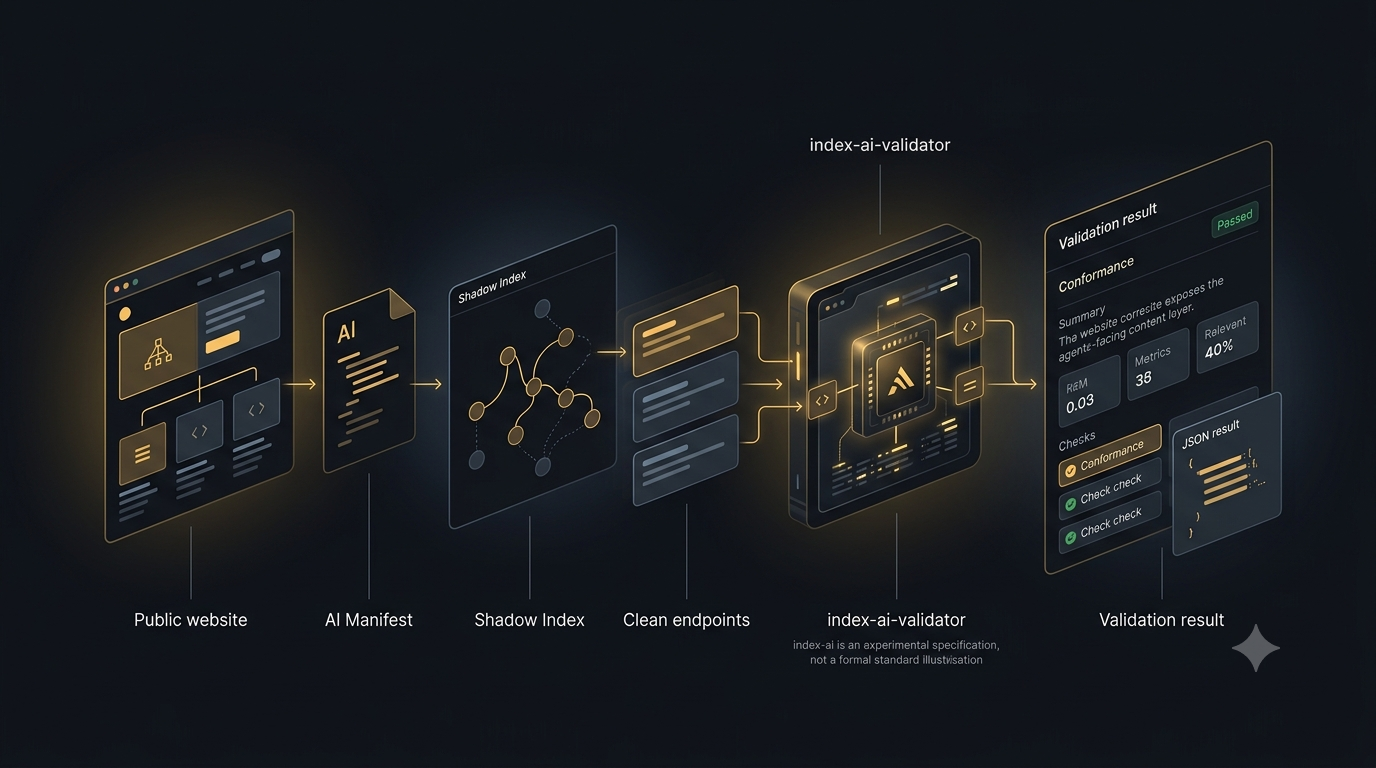
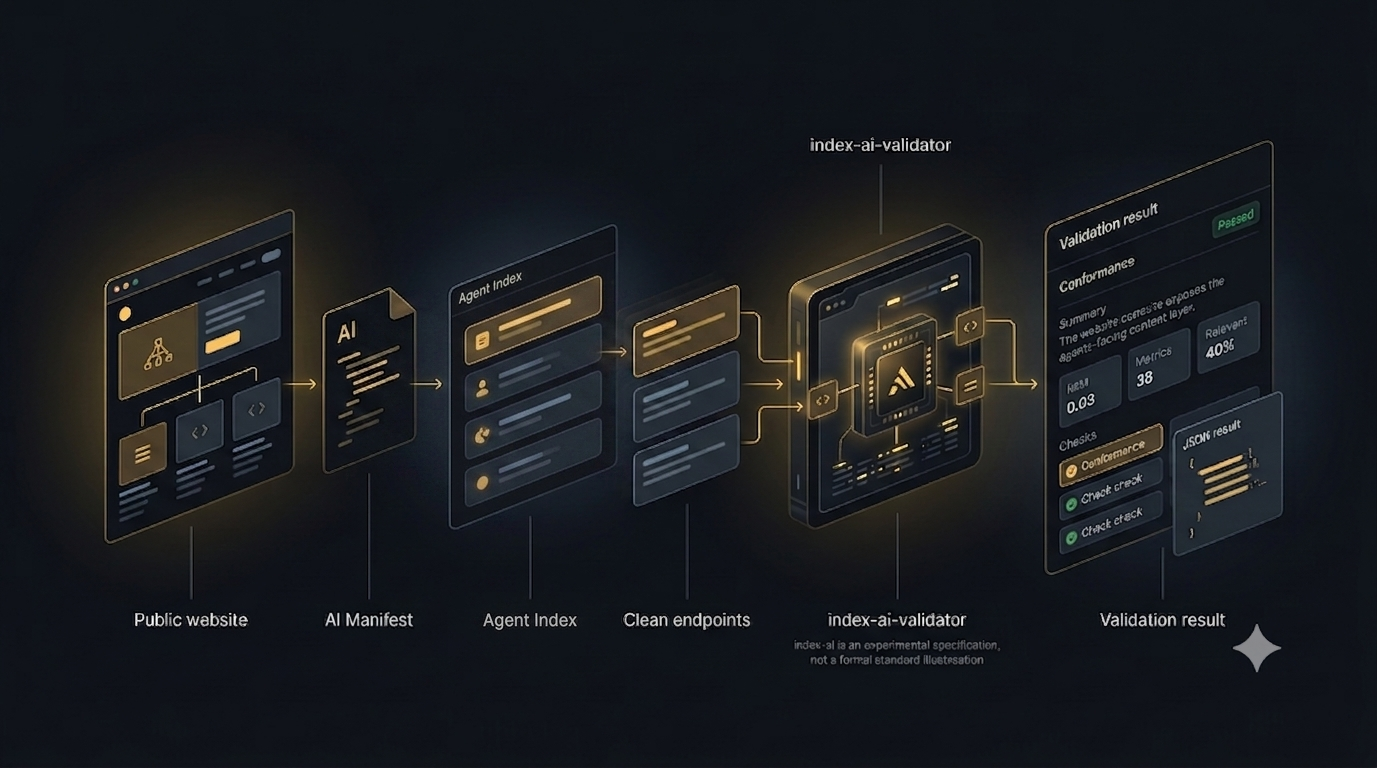
fix: align package metadata and agent index wording

diff --git a/docs/.vitepress/config.ts b/docs/.vitepress/config.ts
@@ -8,7 +8,7 @@ const config = withMermaid(
     base: '/index-ai-validator/',
     title: 'index-ai-validator',
     description:
-      'Free CLI that checks whether your site is readable by AI agents: index-ai manifest, Shadow Index, clean endpoints, and content_chars.',
+      'Free CLI that checks whether your site is readable by AI agents: index-ai manifest, Agent Index, clean endpoints, and content_chars.',
     cleanUrls: true,
     appearance: 'dark',
     vite: {
@@ -49,7 +49,7 @@ const config = withMermaid(
           text: 'What each check means',
           items: [
             { text: 'Level 1 Manifest', link: '/guide/level-1-manifest' },
-            { text: 'Level 2a Shadow Index', link: '/guide/level-2a-shadow-index' },
+            { text: 'Level 2a Agent Index', link: '/guide/level-2a-shadow-index' },
             { text: 'content_chars', link: '/guide/content-chars' },
             { text: 'Security', link: '/guide/security' },
             { text: 'Discovery', link: '/guide/discovery' },

diff --git a/docs/guide/level-2a-shadow-index.md b/docs/guide/level-2a-shadow-index.md
@@ -1,10 +1,10 @@
-# Level 2a Shadow Index
+# Level 2a Agent Index
 
-Level 2a extends Level 1 with a Shadow Index graph. The graph lists clean,
+Level 2a extends Level 1 with an Agent Index graph. The graph lists clean,
 AI-readable endpoints and declares the metadata needed to validate those
 endpoints.
 
-Level 2a Shadow Index validation is available through `validateIndexAi()` and
+Level 2a Agent Index validation is available through `validateIndexAi()` and
 the `index-ai` CLI.
 
 ## Level 2a scope
@@ -12,7 +12,7 @@ the `index-ai` CLI.
 Level 2a validation currently covers:
 
 - manifest `access.shadow_layer`
-- Shadow Index graph fetch
+- Agent Index graph fetch
 - graph JSON content-type check
 - graph JSON parse check
 - graph schema validation
@@ -29,9 +29,9 @@ Level 2a validation currently covers:
 - heuristic security checks against fetched clean endpoint text
 - Level 2a conformance computation
 
-## Shadow Index location
+## Agent Index location
 
-The AI Manifest declares the Shadow Index with:
+The AI Manifest declares the Agent Index with:
 
 ```txt
 access.shadow_layer
@@ -45,9 +45,12 @@ When the manifest uses this value:
 
 the validator resolves it against the target origin and fetches that graph.
 
+`access.shadow_layer` is the current manifest field name for compatibility with
+the implemented Level 2a schema. The public concept is Agent Index.
+
 ## Graph shape
 
-The Shadow Index must use a `nodes` array.
+The Agent Index must use a `nodes` array.
 
 The deprecated `pages` array must fail.
 
@@ -144,7 +147,7 @@ NFC before counting.
 
 ```mermaid
 flowchart TD
-  A["Manifest access.shadow_layer"] --> B["Fetch Shadow Index graph"]
+  A["Manifest access.shadow_layer"] --> B["Fetch Agent Index graph"]
   B --> C["Validate nodes"]
   C --> D["Fetch llm_url"]
   D --> E["Check content type"]
@@ -161,7 +164,7 @@ flowchart TD
 level-2a
 ```
 
-when Level 1 checks pass and the Level 2a Shadow Index checks pass.
+when Level 1 checks pass and the Level 2a Agent Index checks pass.
 
 Warnings can still affect `passed` when `failOnWarn` or strict warning behavior
 is enabled. See [Conformance vs Passed](/guide/conformance-vs-passed).

diff --git a/docs/guide/level-1-manifest.md b/docs/guide/level-1-manifest.md
@@ -5,7 +5,7 @@ site identity, freshness metadata, and machine-readable entry points for an
 `index-ai` implementation.
 
 Level 1 is the base for Level 2a. The public `validateIndexAi()` entrypoint and
-the `index-ai` CLI validate the AI Manifest before attempting Shadow Index
+the `index-ai` CLI validate the AI Manifest before attempting Agent Index
 validation.
 
 ## What the AI Manifest is
@@ -18,8 +18,8 @@ questions:
 - When was the described content updated or generated?
 - Which URL fields point to related machine-readable resources?
 
-Level 1 is structural. Level 2a builds on it by using `access.shadow_layer` to
-find and validate the Shadow Index.
+Level 1 is structural. Level 2a builds on it by using the current
+`access.shadow_layer` manifest field to find and validate the Agent Index.
 
 ## Manifest location
 
@@ -68,7 +68,7 @@ If `level` is present, it must be `level-1` or `level-2a`.
 URL-like manifest fields are checked structurally. The current rule accepts
 absolute `http` or `https` URLs and root-relative paths.
 
-## Shadow Index declaration
+## Agent Index declaration
 
 Level 2a validation uses:
 
@@ -77,8 +77,12 @@ access.shadow_layer
 ```
 
 When present, the validator resolves this path against the target URL and tries
-to fetch the Shadow Index graph. `/ai-graph.json` is the expected graph target
+to fetch the Agent Index graph. `/ai-graph.json` is the expected graph target
 when a manifest declares that path.
+
+`access.shadow_layer` is the current schema field name. The public docs use
+Agent Index for the Level 2a graph to avoid the negative meaning of "shadow" in
+AI and security contexts.
 
 ## Content type and JSON
 

diff --git a/docs/index.md b/docs/index.md
@@ -4,7 +4,7 @@ layout: home
 hero:
   name: index-ai-validator
   text: Is your site readable by AI agents?
-  tagline: A free CLI that checks whether your site exposes a clean, agent-facing layer — index-ai manifest, Shadow Index, clean endpoints, and measured content size. Runs in your terminal. No signup.
+  tagline: A free CLI that checks whether your site exposes a clean, agent-facing layer — index-ai manifest, Agent Index, clean endpoints, and measured content size. Runs in your terminal. No signup.
   actions:
     - theme: brand
       text: Get started
@@ -16,19 +16,19 @@ hero:
 features:
   - title: Prove agents can find you
     details: Checks the AI Manifest at /.well-known/index-ai.json and the discovery hints agents rely on — HTML link, HTTP Link header, robots.txt, llms.txt.
-  - title: Validate your Shadow Index
+  - title: Validate your Agent Index
     details: Inspects the Level 2a graph nodes, fetches each clean llm_url endpoint, and verifies content_chars against the Unicode NFC code-point count.
   - title: Catch leaks before agents do
     details: Flags secret-shaped values, sensitive variable names, and private infrastructure references in the public content you expose to agents.
 ---
 
-![index-ai-validator: from a public website through the AI Manifest, Shadow Index, and clean endpoints to a validation result](./index-ai-validator_explained.png)
+![index-ai-validator: from a public website through the AI Manifest, Agent Index, and clean endpoints to a validation result](./index-ai-validator_explained.png)
 
 ## Most sites are readable by browsers. Is yours readable by agents?
 
 Browsers read HTML, CSS, and JavaScript. AI agents need a different interface: a clean layer that says what a site is, where its content lives, how fresh it is, and how much text they will pay tokens for before fetching it.
 
-`index-ai` explores that layer through three ideas — an [AI Manifest](/guide/level-1-manifest) that describes the site, a [Shadow Index](/guide/level-2a-shadow-index) that maps public content into structured nodes, and clean content endpoints that return Markdown or plain text instead of rendered HTML.
+`index-ai` explores an Agent View through three ideas — an [AI Manifest](/guide/level-1-manifest) that describes the site, an [Agent Index](/guide/level-2a-shadow-index) that maps public content into structured nodes, and clean content endpoints that return Markdown or plain text instead of rendered HTML.
 
 `@hardmachinelabs/index-ai-validator` makes that layer testable. One command tells you whether yours works.
 
@@ -74,7 +74,7 @@ Checks Level 1 + Level 2a today. Not certification, not a traffic promise. → [
 ## What it checks
 
 - Level 1 AI Manifest: fetch, JSON content type, JSON parse, and schema shape
-- The `access.shadow_layer` declaration and the Shadow Index graph it points to
+- The `access.shadow_layer` declaration and the Agent Index graph it points to
 - Level 2a node fields, `llm_url` structure, and clean endpoint content types
 - Hard HTML leaks, with tolerated soft inline markup reported as warnings
 - `content_chars` in `exact` and `max` modes, using Unicode NFC code-point counting

diff --git a/packages/validator/README.md b/packages/validator/README.md
@@ -22,6 +22,13 @@
   <img src="https://img.shields.io/badge/STATUS-EXPERIMENTAL-f59e0b?style=for-the-badge" alt="Experimental status">
 </p>
 
+<p align="center">
+  <img src="https://img.shields.io/badge/TypeScript-Ready-378add?style=for-the-badge" alt="TypeScript ready">
+  <img src="https://img.shields.io/badge/Node.js-20%2B-10b981?style=for-the-badge" alt="Node.js 20 plus">
+  <img src="https://img.shields.io/badge/Dependencies-4%20runtime-7a8ba3?style=for-the-badge" alt="4 runtime dependencies">
+  <img src="https://img.shields.io/badge/Surface-small-f59e0b?style=for-the-badge" alt="Small dependency surface">
+</p>
+
 ![index-ai-validator explained](https://raw.githubusercontent.com/jordachmakaya/index-ai-validator/main/docs/index-ai-validator_explained.png)
 
 **Is your website readable by AI agents?** Most sites are built for browsers — HTML, scripts, navigation, layout. Agents have to read that browser-first HTML to understand you. `@hardmachinelabs/index-ai-validator` checks whether your site also exposes a clean, structured layer built for agents — and makes that layer **testable** from your terminal.
@@ -40,6 +47,8 @@ Naming:
 It is a developer validator, not a production certification, legal compliance
 tool, traffic guarantee, SEO ranking tool, security audit, or vulnerability
 scanner.
+
+Designed for CI and local audits: deterministic output, stable JSON, standalone HTML reports, and a small runtime dependency surface.
 
 ## Installation / run with npx
 

diff --git a/docs/guide/getting-started.md b/docs/guide/getting-started.md
@@ -5,7 +5,7 @@
 `@hardmachinelabs/index-ai-validator` is an experimental free CLI validator for `index-ai` Level
 1 and Level 2a.
 
-It checks whether a public website exposes the files, Shadow Index graph, and
+It checks whether a public website exposes the files, Agent Index graph, and
 clean endpoints expected by the current Level 1 and Level 2a implementation.
 
 ## Who is it for?
@@ -13,7 +13,7 @@ clean endpoints expected by the current Level 1 and Level 2a implementation.
 This package is for developers, maintainers, and technical reviewers working on
 public `index-ai` implementations.
 
-Use it when you need structured validation checks for the AI Manifest, Shadow
+Use it when you need structured validation checks for the AI Manifest, Agent
 Index graph, clean endpoint content types, HTML leaks, `content_chars`,
 conservative security heuristics, discovery hints, and CLI behavior.
 
@@ -94,7 +94,7 @@ Implemented scope:
 - pragmatic AJV Level 1 schema validation
 - `identity.domain` host mismatch warning
 - manifest `access.shadow_layer`
-- Shadow Index graph fetch
+- Agent Index graph fetch
 - graph JSON content-type check
 - graph JSON parse check
 - graph schema validation

diff --git a/docs/about.md b/docs/about.md
@@ -15,7 +15,7 @@ They need a clean, machine-readable layer that explains what a site is, where it
 `index-ai` explores that layer through three ideas:
 
 * an AI Manifest that describes the site;
-* a Shadow Index that maps public content into structured nodes;
+* an Agent Index that maps public content into structured nodes;
 * clean content endpoints that return Markdown or plain text instead of rendered HTML.
 
 ## What this validator does
@@ -25,7 +25,7 @@ They need a clean, machine-readable layer that explains what a site is, where it
 It checks whether a public website exposes the expected Level 1 and Level 2a layer:
 
 * AI Manifest discovery and schema validation;
-* Shadow Index graph validation;
+* Agent Index graph validation;
 * clean `llm_url` endpoint checks;
 * `content_chars` consistency;
 * HTML leak detection;

diff --git a/docs/guide/content-chars.md b/docs/guide/content-chars.md
@@ -7,7 +7,7 @@ honest.
 `content_chars` is the declared Unicode code point count for a clean `llm_url`
 response.
 
-The validator checks `content_chars` as part of Level 2a Shadow Index
+The validator checks `content_chars` as part of Level 2a Agent Index
 validation through both `validateIndexAi()` and the `index-ai` CLI.
 
 ## What is implemented now
@@ -91,7 +91,7 @@ flowchart TD
 
 ## Scope
 
-`content_chars` validation runs on Level 2a Shadow Index clean endpoints through
+`content_chars` validation runs on Level 2a Agent Index clean endpoints through
 `validateIndexAi()`. This is experimental documentation of current validator
 behavior, not compliance certification or a traffic promise. See
 [Scope](/guide/scope).

diff --git a/docs/guide/fix-your-report.md b/docs/guide/fix-your-report.md
@@ -52,12 +52,12 @@ Add the discovery hints that fit your deployment:
 Discovery warnings do not replace the manifest itself. They help agents and
 tools find it.
 
-## If the Shadow Index is missing
+## If the Agent Index is missing
 
 Add `/ai-graph.json` and declare it in the AI Manifest under
 `access.shadow_layer`.
 
-The Shadow Index should list public pages or resources that have clean
+The Agent Index should list public pages or resources that have clean
 agent-facing content.
 
 ## If clean endpoints fail

diff --git a/docs/guide/conformance-vs-passed.md b/docs/guide/conformance-vs-passed.md
@@ -16,7 +16,7 @@ The current validator can return:
 | --- | --- |
 | `none` | Level 1 required checks did not pass. |
 | `level-1` | Level 1 AI Manifest checks passed, but Level 2a did not fully pass. |
-| `level-2a` | Level 1 and Level 2a Shadow Index checks passed. |
+| `level-2a` | Level 1 and Level 2a Agent Index checks passed. |
 
 The package reserves TypeScript union members for Level 2b and Level 3, but the
 current validator does not emit those levels.

diff --git a/docs/guide/json-output.md b/docs/guide/json-output.md
@@ -31,7 +31,7 @@ Top-level fields:
 | `conformance` | Highest implemented structural level reached. |
 | `passed` | Global validation verdict under the selected options. |
 | `summary` | Counts of pass, warn, fail, and total checks. |
-| `metrics` | Implemented counters for manifest, Shadow Index, endpoint, and coverage behavior. |
+| `metrics` | Implemented counters for manifest, Agent Index, endpoint, and coverage behavior. |
 | `checks` | Detailed validation checks with stable codes and severities. |
 
 ## Example

diff --git a/docs/guide/scope.md b/docs/guide/scope.md
@@ -10,7 +10,7 @@ The current package validates `index-ai` Level 1 and Level 2a through `validateI
 
 - Level 1 AI Manifest: canonical fetch at `/.well-known/index-ai.json`, fallback at `/index-ai.json` (with a warning), JSON content type, JSON parse, schema shape, and an `identity.domain` host check
 - The manifest `access.shadow_layer` declaration
-- Shadow Index graph: fetch, JSON content type, JSON parse, schema, `nodes` array, and rejection of the deprecated `pages` array
+- Agent Index graph: fetch, JSON content type, JSON parse, schema, `nodes` array, and rejection of the deprecated `pages` array
 - Per-node `llm_url`: structural validation, fetch, and clean endpoint content type (`text/markdown` or `text/plain`)
 - Hard HTML leak detection, with tolerated soft inline markup reported as a warning
 - `content_chars` in `exact` and `max` modes, using Unicode NFC code-point counting